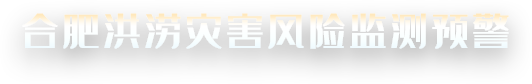
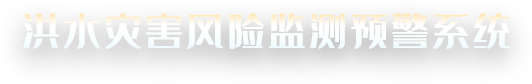
fix: 调整大屏的防汛标题

diff --git a/scripts/pushimage.js b/scripts/pushimage.js
@@ -1,23 +1,23 @@
 const gulp = require('gulp');
 const del = require('del');
 
-//推送镜像
+// 推送镜像
 const tar = require('gulp-tar');
 const Docker = require('dockerode');
 const config = require('../package.json');
 
-//镜像信息初始化
-var imageName = '172.22.3.5:9002/mew/' + config.name + ':' + config.version;
-var fileTarName = config.name + '-' + config.version + '.tar';
-var auth = {
+// 镜像信息初始化
+const imageName = '172.22.3.5:9002/mew/' + config.name + ':' + config.version;
+const fileTarName = config.name + '-' + config.version + '.tar';
+const auth = {
   username: 'tanjie',
   password: '12345678',
   email: 'admin@example.com',
   serveraddress: 'http://172.22.3.5:9002',
 };
-var docker = new Docker({ host: 'http://172.22.3.101', port: 2375 });
+const docker = new Docker({ host: 'http://172.22.3.101', port: 2375 });
 
-//#region  NPM发布Docker镜像
+// #region  NPM发布Docker镜像
 
 gulp.task(
   'copy',
@@ -45,7 +45,7 @@ gulp.task(
         end: true,
       });
       response.on('end', function () {
-        var image = docker.getImage(imageName);
+        const image = docker.getImage(imageName);
         console.log(image);
         image.history(function (err, res) {
           if (err) {
@@ -75,4 +75,4 @@ gulp.task(
   }),
 );
 
-//#endregion
+// #endregion

diff --git a/src/views/DashboardView.vue b/src/views/DashboardView.vue
@@ -105,7 +105,7 @@
                 'flood-active': selectData === 'flood',
               },
             ]" @click="selectFunc('flood')">
-            <div class="title-box">洪涝灾害风险专项</div>
+            <div class="title-box">洪水灾害风险监测预警系统</div>
           </div>
 
           <div class="tool forest" :class="[
